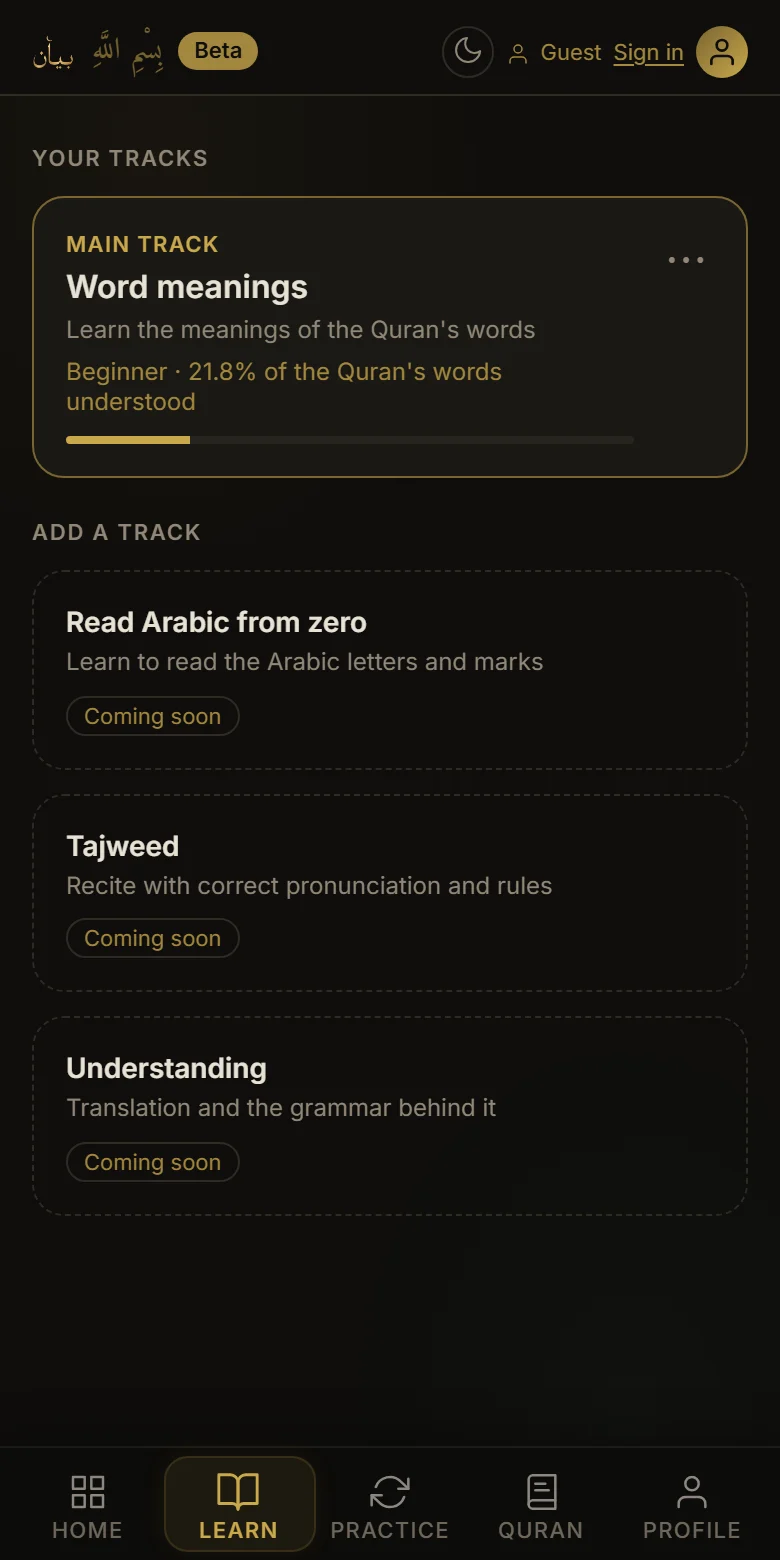
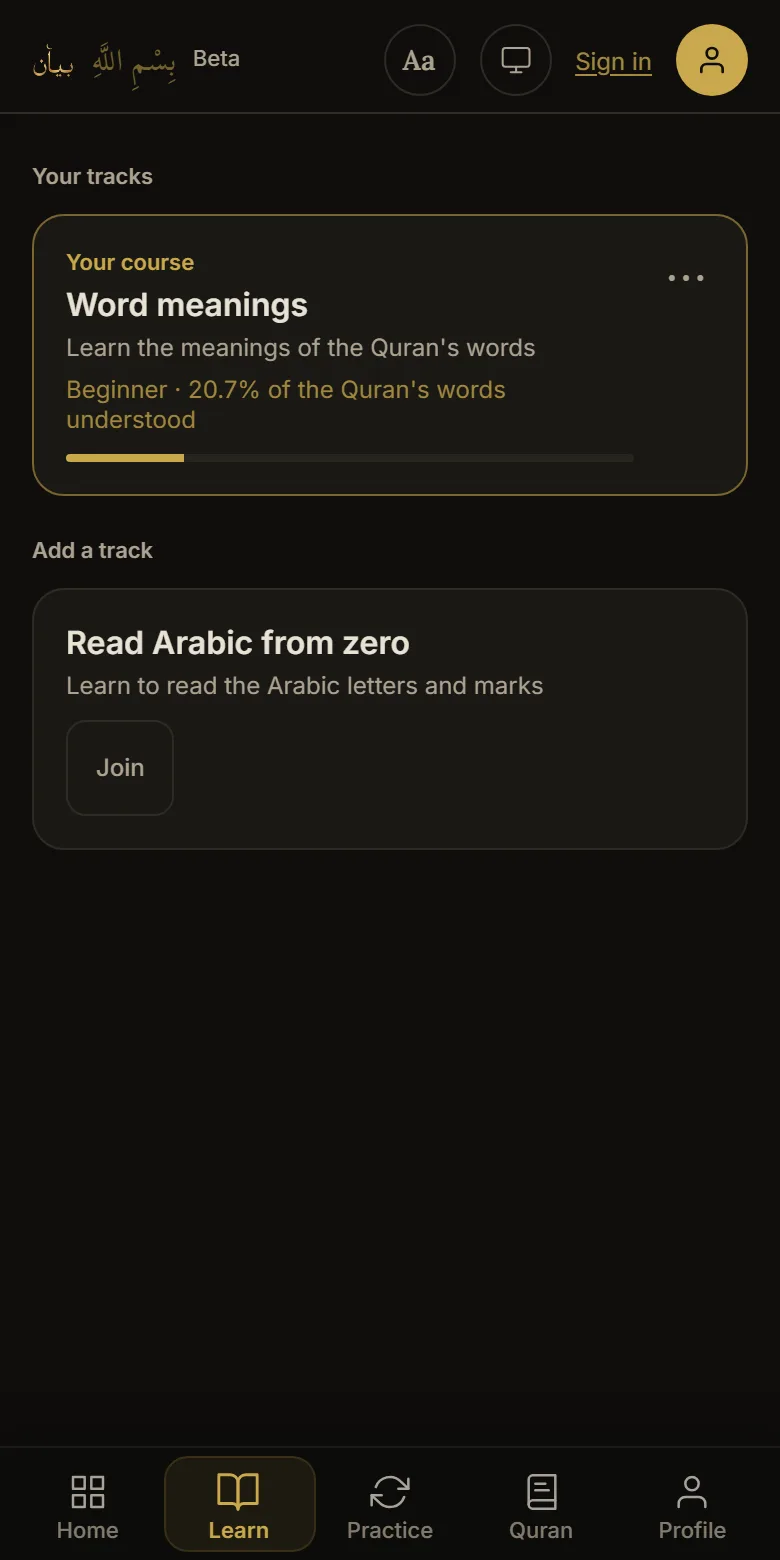
Landing page: retake the five app screenshots from the current app
The Learn shot showed three tracks as Coming soon and the root shot had
overlapping Arabic. New shots show Word meanings in progress, Read Arabic
from zero ready to join, and no sign-up notice; alt texts match.

diff --git a/landing.html b/landing.html
@@ -1159,14 +1159,14 @@
                 <span class="lp-step-n">01</span>
                 <h3>Choose your tracks</h3>
                 <p>Your tracks live in the Learn tab, with your main track first. Each card shows your level and how much of the Quran it has opened up for you.</p>
-                <img class="lp-step-shot" src="assets/screenshots/app-learn.webp" alt="The Learn tab with the Word meanings track and three tracks marked Coming soon" width="390" height="780" loading="lazy" />
+                <img class="lp-step-shot" src="assets/screenshots/app-learn.webp" alt="The Learn tab with the Word meanings track in progress and Read Arabic from zero ready to join" width="390" height="780" loading="lazy" />
               </div>
               <div class="lp-step">
                 <span class="lp-step-n">02</span>
                 <h3>Find your level in about five minutes</h3>
                 <p>An optional placement test adapts to your answers: harder after a right one, easier after a wrong one. It ends as soon as your level is clear.</p>
                 <ul><li>Your level, from Beginner to Advanced</li><li>What you're strong in, and what to work on</li><li>A starting lesson that skips what you know</li></ul>
-                <img class="lp-step-shot" src="assets/screenshots/app-placement.webp" alt="A placement test question asking for the meaning of an Arabic word" width="390" height="780" loading="lazy" />
+                <img class="lp-step-shot" src="assets/screenshots/app-placement.webp" alt="A placement test question asking for the meaning of the Arabic word ash-shaytan" width="390" height="780" loading="lazy" />
               </div>
               <div class="lp-step">
                 <span class="lp-step-n">03</span>
@@ -1178,7 +1178,7 @@
                 <span class="lp-step-n">04</span>
                 <h3>Learn by root</h3>
                 <p>Most Quranic words grow from a three-letter root. Each root lesson shows the root, its meaning, how often it appears, and its whole family of words, then practises them. Part of Premium.</p>
-                <img class="lp-step-shot" src="assets/screenshots/app-root.webp" alt="A root lesson showing the letters of the root alif-mim-nun and its meaning" width="390" height="780" loading="lazy" />
+                <img class="lp-step-shot" src="assets/screenshots/app-root.webp" alt="A root lesson showing the letters of the root alif-lam-ha and its meaning, worship and god" width="390" height="780" loading="lazy" />
               </div>
               <div class="lp-step">
                 <span class="lp-step-n">05</span>
